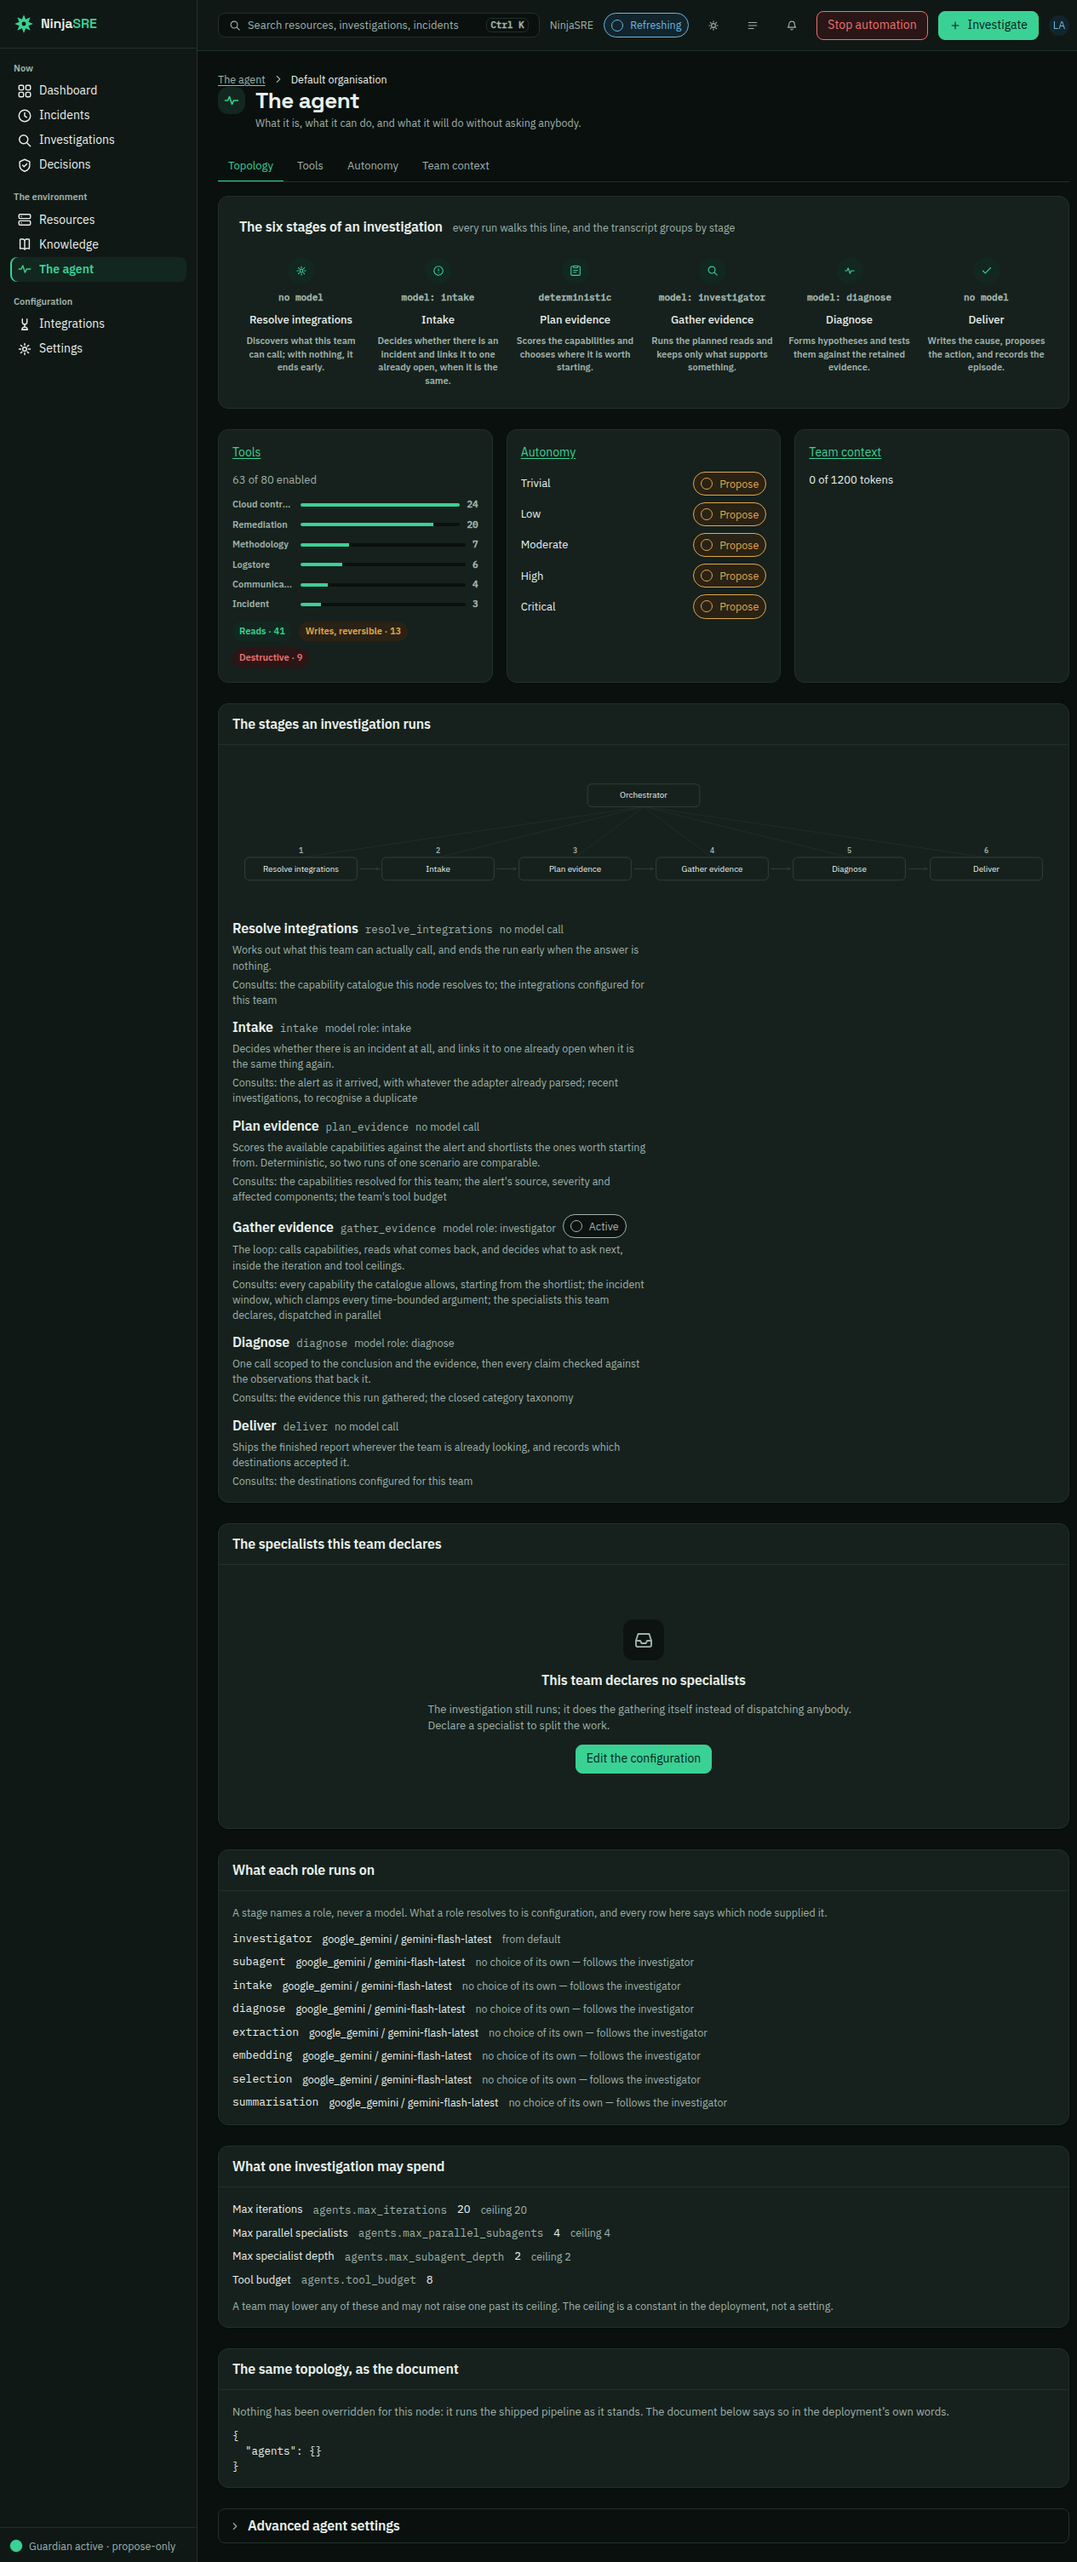
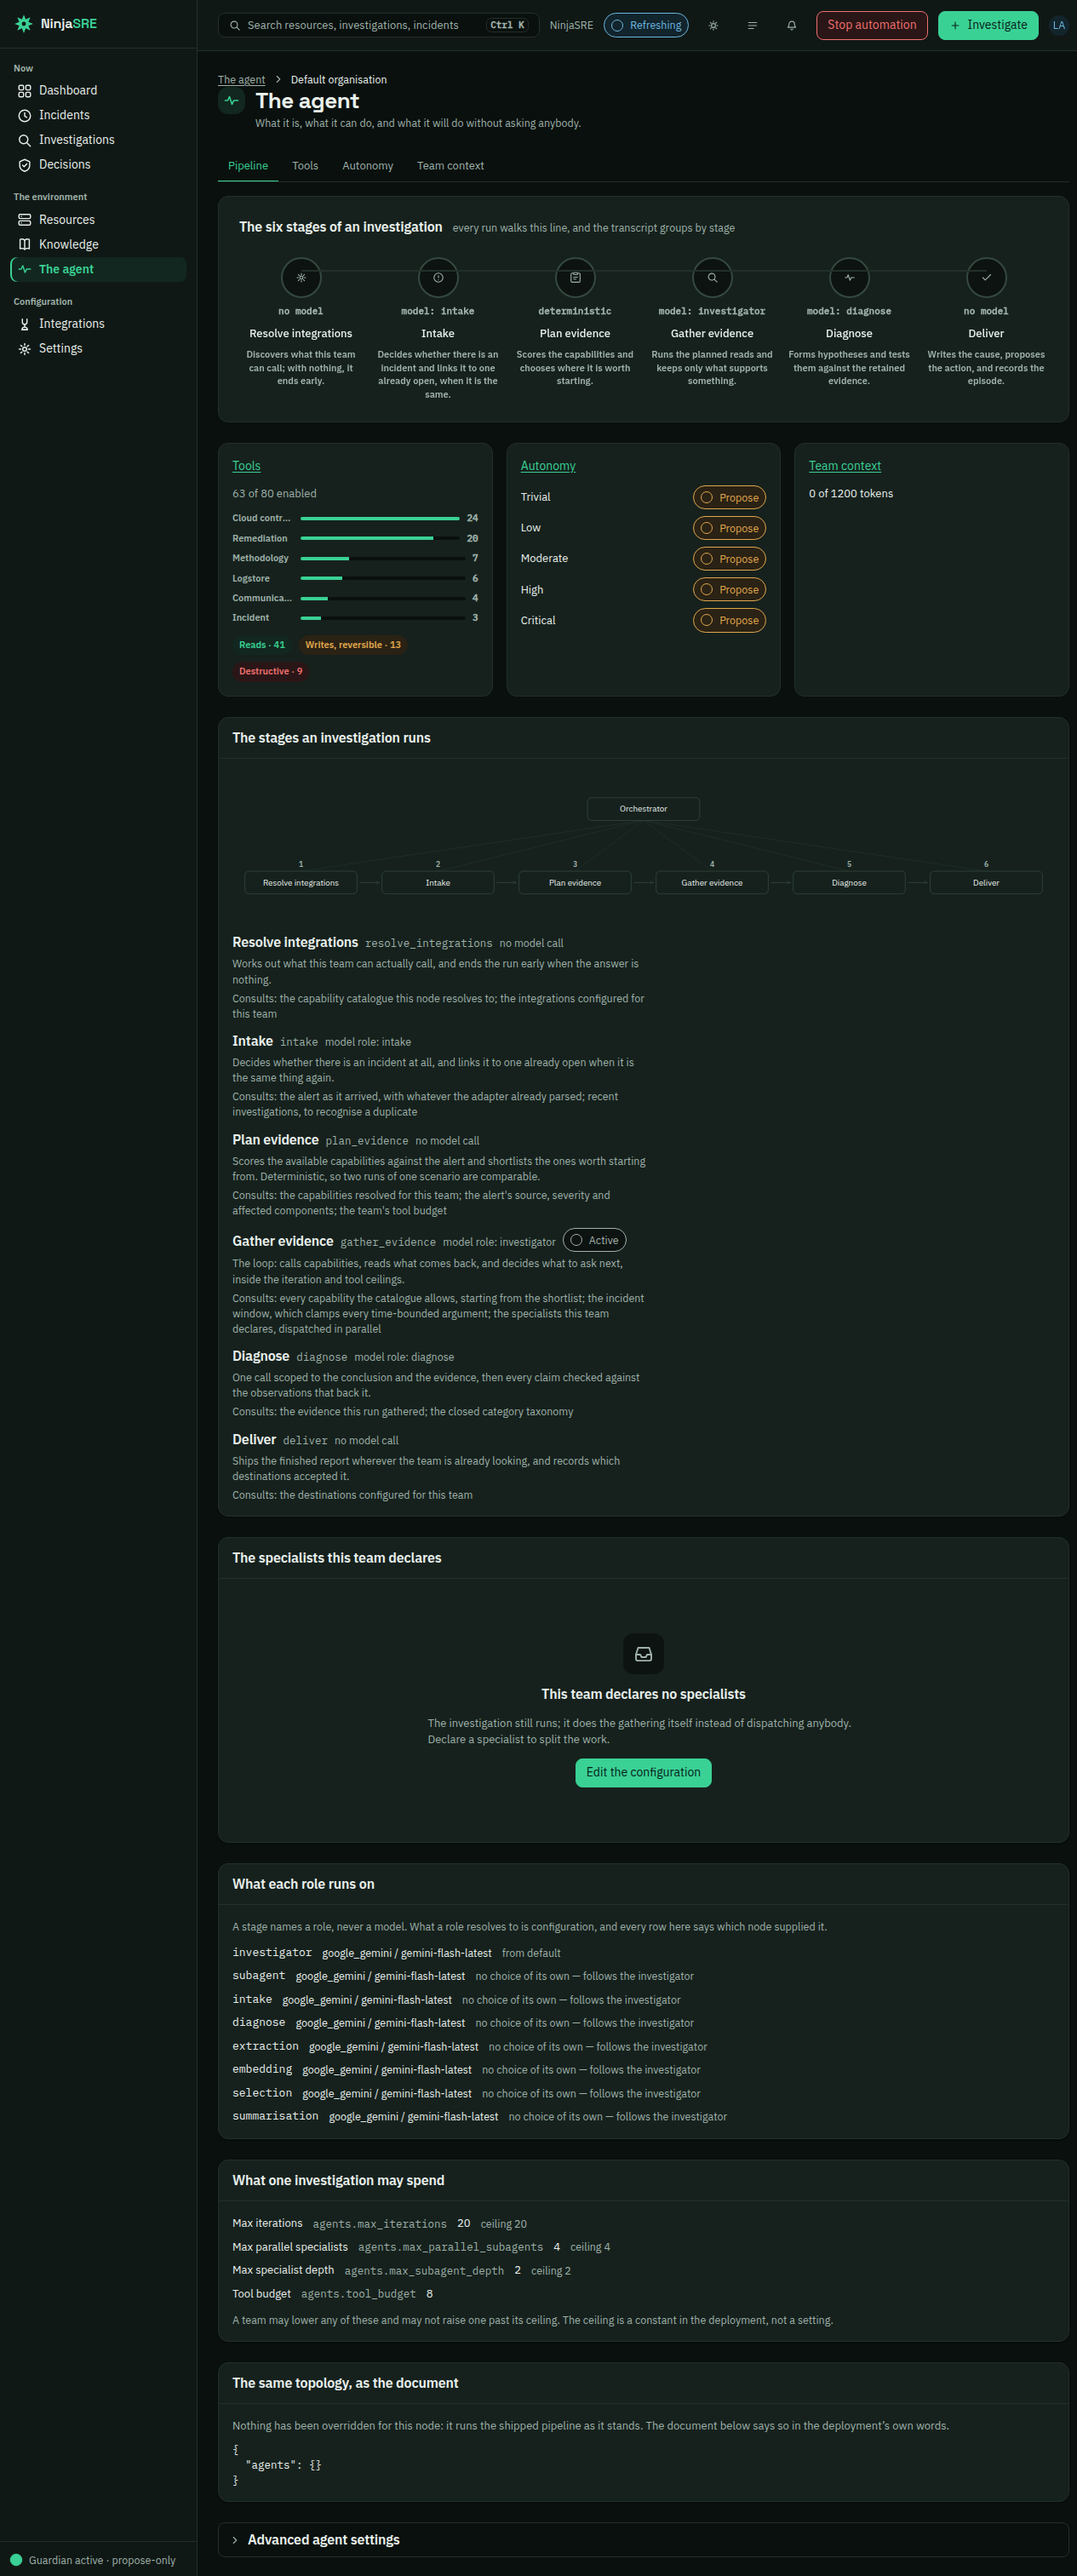
docs(specs): close the S2 visual gate, second round
Every screen conforms. Kept apart from the code so the evidence can be taken
on its own.

Claude-Session: https://claude.ai/code/session_0117Z8SmWAHwZRm5iatQAAfJ

diff --git a/specs_v8/060-telas-de-area/evidence/visual/VEREDITO.md b/specs_v8/060-telas-de-area/evidence/visual/VEREDITO.md
@@ -1,100 +1,67 @@
 # Veredito visual — Telas de área, slot S2
 
-Capturado no staging real depois do deploy de todos os componentes e do
-aquecimento das rotas. Cada captura teve o tema conferido duas vezes: a escolha
-declarada pelo controle e a cor de fundo medida. O controle é tri-estado
+Duas rodadas. A primeira reprovou o slot com quatro desvios; esta é a segunda,
+contra o staging já reimplantado com os reparos. As capturas "antes", em
+`antes/`, são da implantação anterior e servem de par de comparação.
+
+Cada captura teve o tema conferido duas vezes antes de valer: a escolha que o
+próprio controle reporta e a cor de fundo medida. O controle é tri-estado
 (claro → escuro → sistema), então um clique não é "o outro tema" — vindo do
-escuro ele cai em sistema, que renderiza claro e parece sucesso. As capturas
-"antes", em `antes/`, foram tomadas contra a implantação anterior e servem de
-par de comparação.
+escuro ele cai em sistema, que renderiza claro e parece sucesso.
 
 | Tela × tema | Veredito |
 |---|---|
-| `/incidents` escuro | **DESVIO** — subtítulo continua sendo identificador, não frase |
-| `/incidents` claro | idem |
-| `/resources` escuro | **DESVIO** — a grade não é limitada; a tela tem 3230 px |
-| `/resources` claro | idem |
-| `/knowledge` escuro | **DESVIO** — desfecho sem chip e fora do vocabulário de status |
-| `/knowledge` claro | idem |
-| `/agent` escuro | **DESVIO** — primeira aba chamada "Topology" onde o board diz "Pipeline"; a linha de metrô não desenha o trilho |
-| `/agent` claro | idem |
+| `/incidents` escuro | CONFORME |
+| `/incidents` claro | CONFORME |
+| `/resources` escuro | CONFORME |
+| `/resources` claro | CONFORME |
+| `/knowledge` escuro | CONFORME |
+| `/knowledge` claro | CONFORME |
+| `/agent` escuro | CONFORME |
+| `/agent` claro | CONFORME |
 
-## O que conforma, e é muito
+## O que a primeira rodada reprovou, e o que fechou cada um
 
-**Incidentes.** Os `<select>` viraram controles segmentados (Estado, Severidade,
-Visão) como o artboard manda. A linha-resumo "30 assuntos · 50 disparos · 3
-críticos em investigação" está no canto certo. Agrupa por assunto, chips de
-severidade e de estado com forma além de cor, contagem de disparos, tempo
-relativo, marcas por linha, e a faixa âmbar de cobertura de detector no rodapé
-com sua ação. Os críticos vêm primeiro.
+**Incidentes — o subtítulo era um identificador.** O board desenha a frase
+humana primeiro e o id truncado no fim, como detalhe. A tela mostrava
+`res-dde476d5…` sozinho. Os nomes existiam: cada id da amostra resolve na base
+de estado — `runner-orchestrator`, `pve02`, `troubleshooting-lab`,
+`alpine-postgresql`, `unbound`. Fechado usando uma leitura que a tela **já
+fazia** para o cartão de cobertura de detector, sem requisição nova. Um assunto
+que a base não conhece continua mostrando o id, em vez de inventar um nome.
 
-**Recursos.** Barra de saúde segmentada com a legenda de quatro estados, chips
-de tipo com contagem, a faixa vermelha de síntese em lote — "8 contêineres não
-saudáveis desde 20 h atrás, todos em pve01, mesma janela" com "investigar em
-lote →" — seções por nó com contagem de não saudáveis, cartões em grade com os
-não saudáveis primeiro dentro da seção, e a faixa âmbar de zona/criticidade no
-fim. É o artboard.
+**Recursos — a grade não terminava.** 59 cartões num nó só, página de 3230 px.
+Fechado limitando como o board limita: duas linhas numa seção que tem algo não
+saudável, uma onde não tem, e um "ver todos os N" por seção. O link é destino
+de verdade — um filtro por nó com a mesma forma dos outros filtros da tela, sem
+limite lá dentro, com volta —, não uma seta decorativa. A página caiu para
+1795 px, e é isso que finalmente torna esta tela capturável: a dívida herdada
+de baseline não era outra coisa senão esta.
 
-**Conhecimento.** Aprendido é a aba de entrada. Filtro de componente agrupado
-mais o segmentado de desfecho. Os cartões de episódio têm a forma do artboard:
-frase como título — nunca um id —, resumo, chips de componente, "abrir
-investigação →" e tempo relativo. O painel "O que o agente aprendeu com isso"
-lê a fila de propostas, à direita, como desenhado.
+**Conhecimento — o desfecho estava fora do vocabulário de status.** Nenhum
+elemento da página carregava `data-role`. Fechado roteando o desfecho pelo
+componente compartilhado e dando a ele o chip que o board desenha. Achado no
+caminho, e maior que o desvio: as fixtures do mock serviam `acknowledged` e
+`unresolved`, palavras que o backend real nunca emitiu.
 
-**O agente.** Os seis estágios estão todos lá, cada um com ícone, o papel de
-modelo anotado ("sem modelo", "modelo: intake", "determinístico"…), nome e a
-microcópia de uma frase — o conteúdo do artboard, item por item. Os três cartões
-de resumo também: Ferramentas com "63 de 80 habilitadas", barras por domínio e
-os chips de nível de efeito; Autonomia com os cinco níveis e um controle Propor
-em cada; Contexto do time com o orçamento de tokens.
-
-## Os desvios, um a um
-
-**1. Incidentes: o subtítulo ainda é um identificador.** O board desenha
-`redis em lxc/122 · pve01 · recorrente desde ontem · res-7a73…` — a frase
-humana primeiro, o id truncado no fim, como detalhe. A tela mostra
-`res-dde476d5…` sozinho na maioria das linhas. O código encurta identificadores
-opacos em vez de os imprimir inteiros, o que é melhor do que era, mas encurtar
-um id não é substituí-lo por um nome. Onde o alerta traz rótulos, a linha fica
-legível; onde só traz o id do recurso, não.
-
-**2. Recursos: a grade não é limitada.** O artboard mostra alguns cartões por
-nó e um "ver os 58 recursos de pve01 →". A tela imprime todos — 59 cartões só
-em pve01 — e por isso tem 3230 px de altura. Isto é a mesma coisa que a dívida
-herdada de baseline não capturável: a captura não cabe em janela nenhuma
-justamente porque a grade não termina. Trocar a tabela pela grade não fechou
-essa dívida; limitar a grade fecharia.
-
-**3. Conhecimento: o desfecho do episódio não usa o vocabulário de status.**
-Nenhum elemento da página carrega `data-role` — conferido no ambiente real, não
-deduzido —, então o ponto de desfecho é desenhado por conta própria e não pelo
-componente compartilhado. O artboard desenha um chip âmbar "inconclusivo" à
-direita de cada episódio, além do ponto vazado. A tela não tem o chip, e o ponto
-não carrega o papel.
-
-Nota honesta: a forma `inconclusive` foi acrescentada ao mapa de status durante
-o merge deste slot, exatamente para desenhar âmbar e vazado como o board manda.
-Ela está correta e **não tem efeito aqui**, porque esta tela não consome esse
-mapa. Aplicar não é o mesmo que verificar.
-
-**4. O agente: a primeira aba tem outro nome, e a linha não tem trilho.** O
-board nomeia as abas Pipeline / Ferramentas / Autonomia / Contexto do time; a
-tela chama a primeira de "Topology". E a "linha de metrô" do artboard são seis
-ícones circulados ligados por um trilho horizontal, com o estágio corrente
-ampliado; a tela desenha seis colunas de texto com ícones pequenos e nenhum
-trilho entre elas. O chip "N investigações em voo" não aparece, mas isso é dado
-— o staging não tem nenhum run em execução, medido: 682 completos, 11
-interrompidos, zero rodando.
+**O agente — a aba tinha outro nome e a linha não tinha linha.** O nome era um
+único valor de mensagem, não o slug da URL: renomear o slug teria movido um
+contrato que ninguém pediu para mover. O trilho passou a ser desenhado, e numa
+segunda passagem os seis estágios viraram estações — poços circulares com anel
+de 2 px, nos mesmos valores que o board usa.
 
 ## Diferenças que não são desvio
 
+- **As estações estão todas em "ainda não alcançado".** O board pinta as
+  primeiras em accent e a corrente preenchida, porque desenha um run em
+  andamento. O staging não tem nenhum — 682 completos, 11 interrompidos, zero
+  rodando, medido. E nada no contrato nomeia em que estágio um run que está
+  rodando se encontra, o que está declarado no controle com o precedente de
+  outra feature desta onda. Os três tratamentos existem e são testados; falta
+  um campo, não desenho.
 - **Dado.** Contagens, nomes e tempos do staging não são os do artboard.
 - **Idioma.** O board é pt-BR, a sessão capturada estava em inglês.
-- **O conteúdo antigo abaixo do herói em `/agent`** — estágios em detalhe,
-  especialistas, modelos por papel, orçamento — foi mantido de propósito: a
-  própria tarefa desta feature pede a listagem detalhada preservada e
-  re-vestida abaixo da visão nova.
 - **As cinco sub-abas não reformadas** (Documentos, Topologia, Ferramentas,
-  Autonomia, Contexto do time) foram cortadas com razão declarada. São medidas
-  só pelo vocabulário compartilhado, nunca contra os artboards próprios delas,
-  que esta rodada deliberadamente não construiu.
+  Autonomia, Contexto do time) foram cortadas com razão declarada e são
+  medidas só pelo vocabulário compartilhado, nunca contra os artboards
+  próprios delas, que esta rodada deliberadamente não construiu.

diff --git a/specs_v8/040-decisoes-estruturadas/evidence/visual/VEREDITO.md b/specs_v8/040-decisoes-estruturadas/evidence/visual/VEREDITO.md
@@ -11,7 +11,7 @@ Comparado com `design/padrao-2026-08/Decisions.dc.html`.
 
 | Tela × tema | Veredito |
 |---|---|
-| `/decisions` escuro | **DESVIO** — "Por quê" repete, palavra por palavra, o texto de "O que vai acontecer" |
+| `/decisions` escuro | CONFORME — com uma ressalva de dado, abaixo |
 | `/decisions` claro | idem |
 | `/decisions?tab=changes` escuro | CONFORME |
 | `/decisions?tab=changes` claro | CONFORME |
@@ -48,3 +48,35 @@ implantação não tem, é imprimir uma vez, na seção a que a frase pertence.
   topologia do staging não registra dependentes deste recurso.
 - **Idioma.** O board é pt-BR e a sessão capturada estava em inglês. i18n, com
   as duas metades do catálogo presentes e em paridade.
+
+
+## A segunda rodada: o desvio fechou, e onde ele ainda aparece
+
+O reparo não estava onde o desvio aparecia. O cartão nunca esteve errado — ele
+recebe "por quê" e "passo 1" como dois campos independentes. Quem escrevia o
+mesmo valor nos dois era o construtor do payload, no servidor. O passo passou a
+carregar a operação que a ação já computava: *a operação exata que uma pessoa
+poderia rodar no lugar*. Nenhuma linha de console mudou.
+
+**Provado no ambiente real, e não só em teste.** A proposta expirada do staging
+foi reproposta pela própria tela — a única escrita propose-only que o protocolo
+permite —, e os dois payloads gravados dizem o seguinte:
+
+| aprovação | `steps[0].description` | igual ao `intent`? |
+|---|---|---|
+| expirada, gravada antes do reparo | a justificativa | **sim** |
+| reproposta, gravada depois | `proxmox_start_guest(kind='lxc', node='pve01', vmid=122)` | **não** |
+
+**A ressalva, que é de dado e não de código.** Um payload é documento gravado,
+então o reparo não é retroativo: a aprovação expirada guarda a duplicação com
+que nasceu. E ela é justamente o cartão que a tela expande, porque a fila é
+montada com expiradas primeiro. Quem olhar `/decisions` no staging hoje vai ver
+a repetição no cartão de cima — não porque o defeito persista, mas porque
+aquela linha é anterior à correção. Isto quase foi registrado como defeito
+remanescente; foi conferido lendo os dois payloads de dentro do cluster.
+
+## O que o repropor mediu, de resto
+
+Total de 4 para 5 linhas, uma nova pendente carregando `origin_approval_id` — o
+vínculo de origem que a feature prometeu —, e a expirada continua expirada.
+Nada foi apagado: todo desfecho é um estado.
